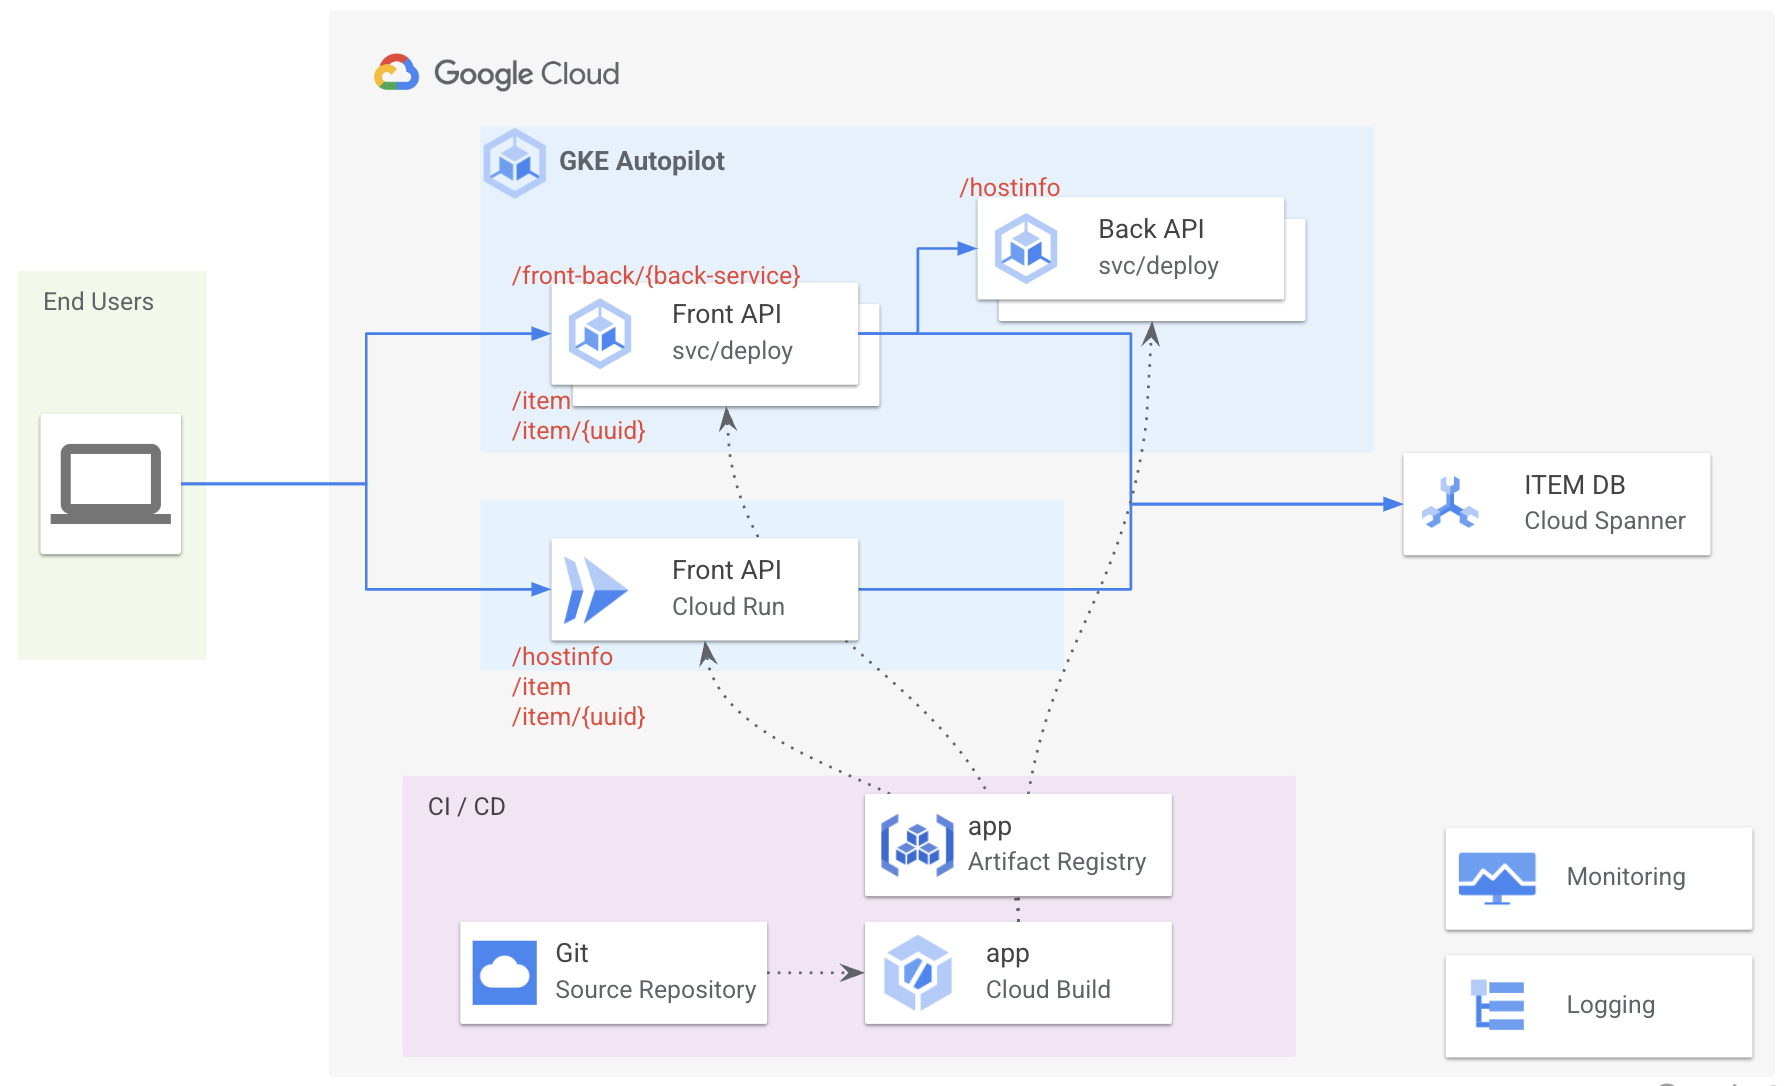
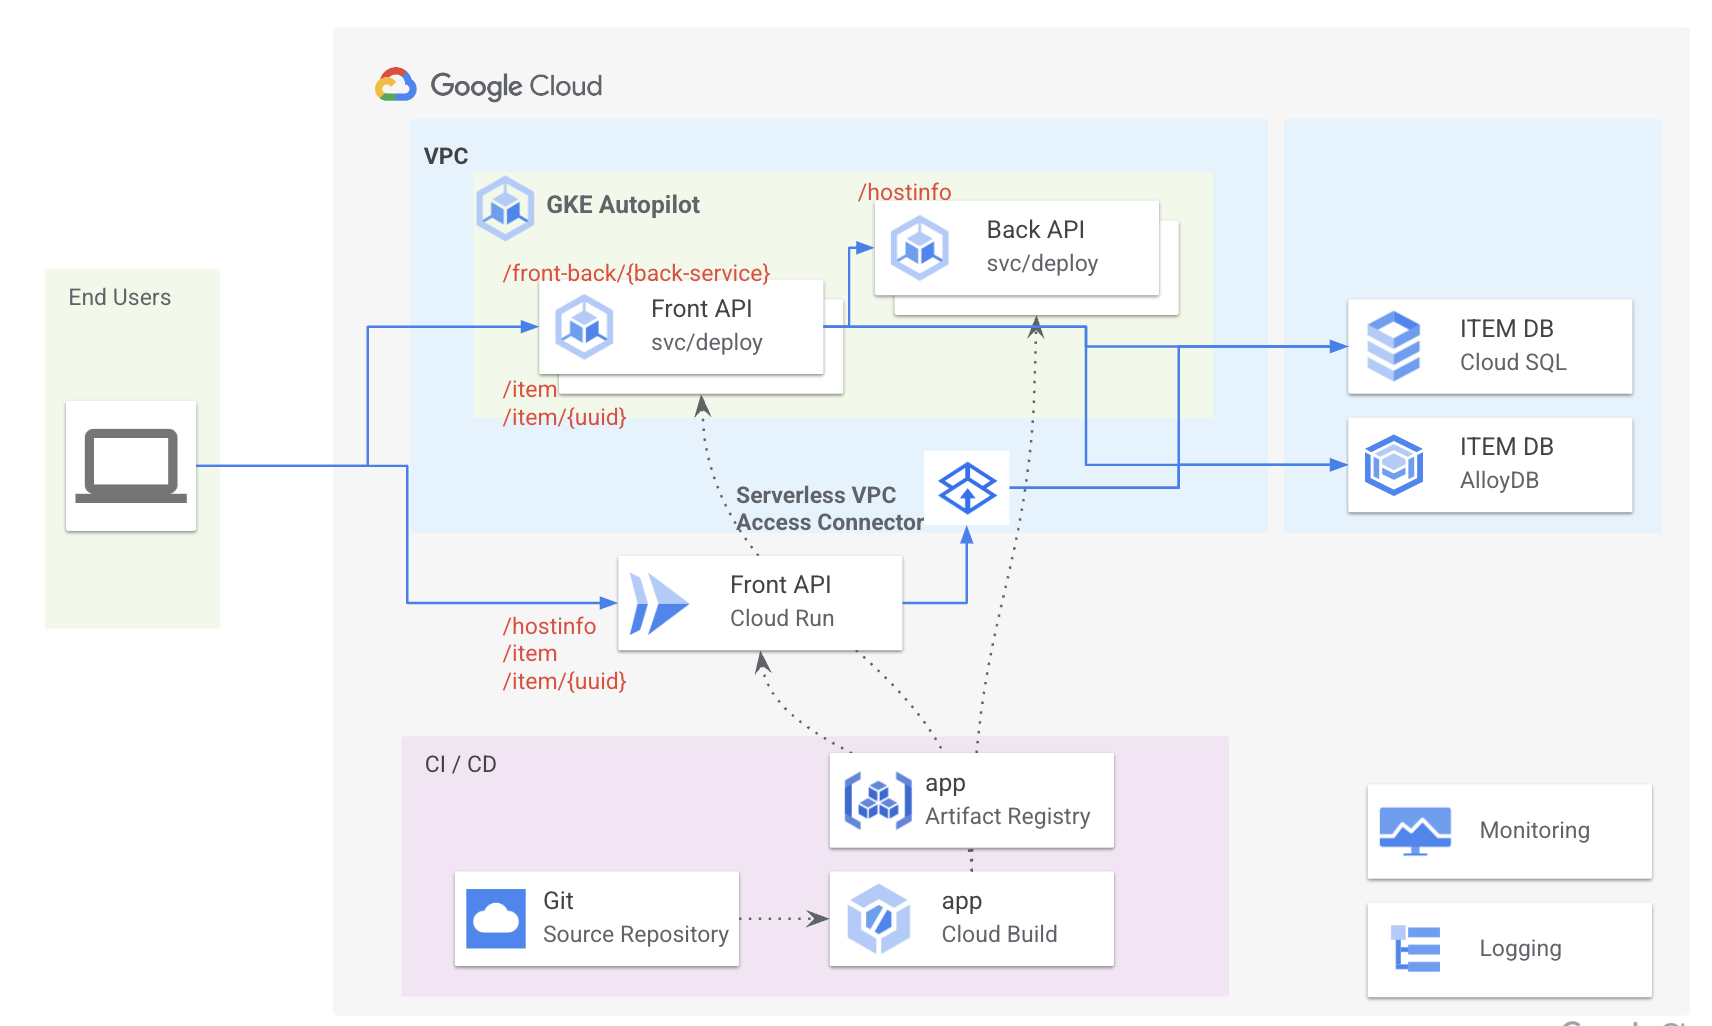
Cloud Run with Postgre

diff --git a/src/main/java/com/kitady/gke/spring/MyRuntimeHints.java b/src/main/java/com/kitady/gke/spring/MyRuntimeHints.java
@@ -1,0 +1,16 @@
+package com.kitady.gke.spring;
+
+import org.springframework.aot.hint.RuntimeHints;
+import org.springframework.aot.hint.RuntimeHintsRegistrar;
+
+public class MyRuntimeHints implements RuntimeHintsRegistrar{
+
+  @Override
+  public void registerHints(RuntimeHints hints, ClassLoader classLoader) {
+    // Register method for reflection
+    // Register resources
+    // Register serialization
+    hints.serialization().registerType(com.fasterxml.jackson.databind.ser.std.SqlDateSerializer.class);
+    // Register proxy
+  }
+}

diff --git a/src/main/java/com/kitady/gke/spring/GkeSpringApplication.java b/src/main/java/com/kitady/gke/spring/GkeSpringApplication.java
@@ -2,8 +2,10 @@ package com.kitady.gke.spring;
 
 import org.springframework.boot.SpringApplication;
 import org.springframework.boot.autoconfigure.SpringBootApplication;
+import org.springframework.context.annotation.ImportRuntimeHints;
 
 @SpringBootApplication
+@ImportRuntimeHints(MyRuntimeHints.class)
 public class GkeSpringApplication {
 
   public static void main(String[] args) {

diff --git a/README.md b/README.md
@@ -7,7 +7,7 @@
   - マイクロサービスアーキテクチャー
     - サービス - サービス間の呼び出し
       - /fonrt-back/{back-service}
-    - Spanner 呼び出し
+    - DB 呼び出し
       - /item
       - /item/{uuid}
     - コンテナ内で Pod や Cloud Run の情報取得
@@ -18,7 +18,7 @@
 
 開発アプリケーションとしては以下のフレームワークを想定する。
 - Spring Boot
-- DB アクセスは Spring Data Cloud Spanner を利用
+- DB アクセスは Spring JPA を利用
 
 ※JavaEE8 バージョンは[こちら](https://github.com/junyakitady/gke-javaee/)
 
@@ -29,7 +29,23 @@
 ## プロジェクトの作成
 新規のプロジェクトを作成し、開発メンバーなどにプロジェクトへの編集者権限を追加する。
 
-## Spanner の作成
+## VPC ネットワークの作成
+VPC ネットワークを作成する。
+- 名前: `vpc-jp`
+- サブネット: 
+  - 名前: `subnet-tok`
+  - リージョン: `asia-northeast1`
+  - IPv4 レンジ: `10.140.0.0/20`
+  - 限定公開のGoogleアクセス: `オン`
+- デフォルト ファイアウォール ルール 選択して作成する
+
+続いて、VPC ネットワーク > サーバーレス VPC アクセスより、VPC 内にサーバーレス VPC アクセスコネクタを作成する。
+- 名前: `serverless-vpc-access-jp `
+- リージョン: `asia-northeast1`
+- ネットワーク: `vpc-jp`
+- サブネット: `10.8.0.0/28`
+
+## Cloud SQL / AlloyDB の作成
 インスタンスを作成する。
  - インスタンス名: `noog`
 
@@ -37,37 +53,42 @@
  - データベース名: `noogl`
  - Google 標準 SQL
 
-テーブルを作成する。
+アクセスするユーザを決定し、スキーマ、テーブルを作成する。
 ```
-CREATE TABLE ITEM (
- UUID STRING(36) NOT NULL,
- NAME STRING(60) NOT NULL,
- NAMEJP STRING(60),
- BREWERY STRING(40) NOT NULL,
- TYPE STRING(3),
- DIV STRING(3),
- ITEMNO INT64,
- PRICE NUMERIC,
- EXPLANATION STRING(256),
- REGDATE DATE,
- TIMEZONE STRING(32),
- TIMESTMP TIMESTAMP,
- VERSION TIMESTAMP,
-) PRIMARY KEY(UUID);
+CREATE TABLE item (
+uuid VARCHAR(36) PRIMARY KEY NOT NULL,
+name VARCHAR(60) NOT NULL,
+namejp VARCHAR(60),
+brewery VARCHAR(40) NOT NULL,
+type VARCHAR(3),
+div VARCHAR(3),
+itemno BIGINT,
+price NUMERIC,
+explanation VARCHAR(256),
+regdate DATE,
+timezone VARCHAR(32),
+timestmp TIMESTAMP,
+version TIMESTAMP
+);
 ```
 サンプルデータを用意する。
 ```
-INSERT INTO ITEM (UUID, NAME, NAMEJP, BREWERY, TYPE, DIV, ITEMNO, PRICE, EXPLANATION, REGDATE, TIMEZONE, TIMESTMP, VERSION)
-VALUES
-("4ac8a11e-8189-4037-88ec-093bd3c1e0ba", "Stone Happy 01.01.22", "ストーンハッピー０１．０１．２３", "Stone Brewery", "010", "100", 1111111111, 960.1, "My first item", "2021-12-15", "Asia/Tokyo", CURRENT_TIMESTAMP, CURRENT_TIMESTAMP),
-("0084ee43-db66-460e-ba58-8182b154f3f8", "Space Delux", "スペース Delux", "Space Brewery", "020", "200", 2222222222, 860.1, "My second item", "2022-02-15", "Asia/Tokyo", CURRENT_TIMESTAMP, CURRENT_TIMESTAMP),
-("1fb4d57c-0aa6-48db-bd88-4385e2bb7e30", "Stone Happy 31.09.22", "ストーンハッピー３１．１０．２２", "Stone Brewery", "030", "300", 3333333333, 860.1, "My third item", "2022-03-14", "Asia/Tokyo", CURRENT_TIMESTAMP, CURRENT_TIMESTAMP);
+INSERT INTO item ( uuid, name, namejp, brewery, type, div, itemno, price, explanation, regdate, timezone, timestmp, version ) 
+VALUES ('4ac8a11e-8189-4037-88ec-093bd3c1e0ba', 'Stone Happy 01.01.22', 'ストーンハッピー０１．０１．２３', 'Stone Brewery', '010', '100', 1111111111, 960.1, 'My first item', '2021-12-15', 'Asia/Tokyo', current_timestamp, current_timestamp),
+('0084ee43-db66-460e-ba58-8182b154f3f8', 'Space Delux', 'スペース Delux', 'Space Brewery', '020', '200', 2222222222, 860.1, 'My second item', '2022-02-15', 'Asia/Tokyo', current_timestamp, current_timestamp),
+('1fb4d57c-0aa6-48db-bd88-4385e2bb7e30', 'Stone Happy 31.09.22', 'ストーンハッピー３１．１０．２２', 'Stone Brewery', '030', '300', 3333333333, 860.1, 'My third item', '2022-03-14', 'Asia/Tokyo', current_timestamp, current_timestamp);
 ```
 
 ## サービスアカウントの作成
-`spanner-client`という名でSpanner 接続用のサービスアカウントを作成する。(`spanner-client@{PROJECT_ID}.iam.gserviceaccount.com`)
+`db-client`という名で Spanner 接続用のサービスアカウントを作成する。(`db-client@{PROJECT_ID}.iam.gserviceaccount.com`)
 
-`Cloud Spanner データベース ユーザー`という IAM ロールを付与する。
+
+## シークレットの作成
+DB サーバーの情報を確認し、セキュリティ > Secret Manager より、以下のシークレットを作成する。
+- 名前 `jdbc_url`
+- 値 `jdbc:postgresql://<DB_HOST>:<DB_PORT>/<DB_NAME>?user=<DB_USER>&password=<DB_PASS>`
+
+シークレット作成後、`db-client`サービスアカウントに`Secret Manager のシークレット アクセサー`のアクセス権を付与する。
 
 ## ソースリポジトリの作成
 https://github.com/junyakitady/gke-spring/ をベースして、Github もしくは Source Repositiry にクローンを作成する。
@@ -80,7 +101,7 @@ Artifact Registry API と、脆弱性スキャンを有効にする。
 - 形式 `Docker`
 - リージョン `asia-northeast1（東京）`
 
-## Cloud Build　の設定
+## Cloud Build の設定
 Cloud Build > トリガー より以下のトリガーを作成する。
 - 名前 `gke-spring-run`
 - リージョン `asia-northeast1`
@@ -101,7 +122,8 @@ Cloud Build > トリガー より以下のトリガーを作成する。
 - Ingress `すべてのトラフィックを許可する`
 - 認証 `未認証の呼び出しを許可`
 - コンテナポート `8080`
-- サービス アカウント `spanner-client`
+- サーバーレス VPC アクセスコネクタ 経由で VPC に接続されている
+- サービス アカウント `db-client`
 
 Cloud Run サービスの URL を確認し、以下のパスに対して動作確認を行う。
 - /hostinfo
